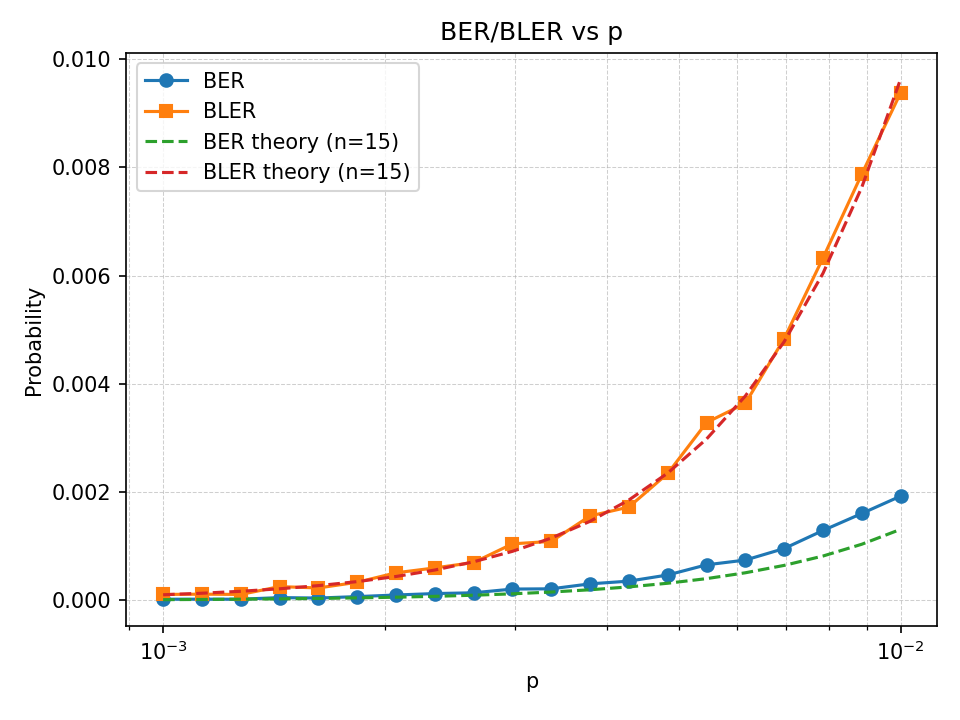
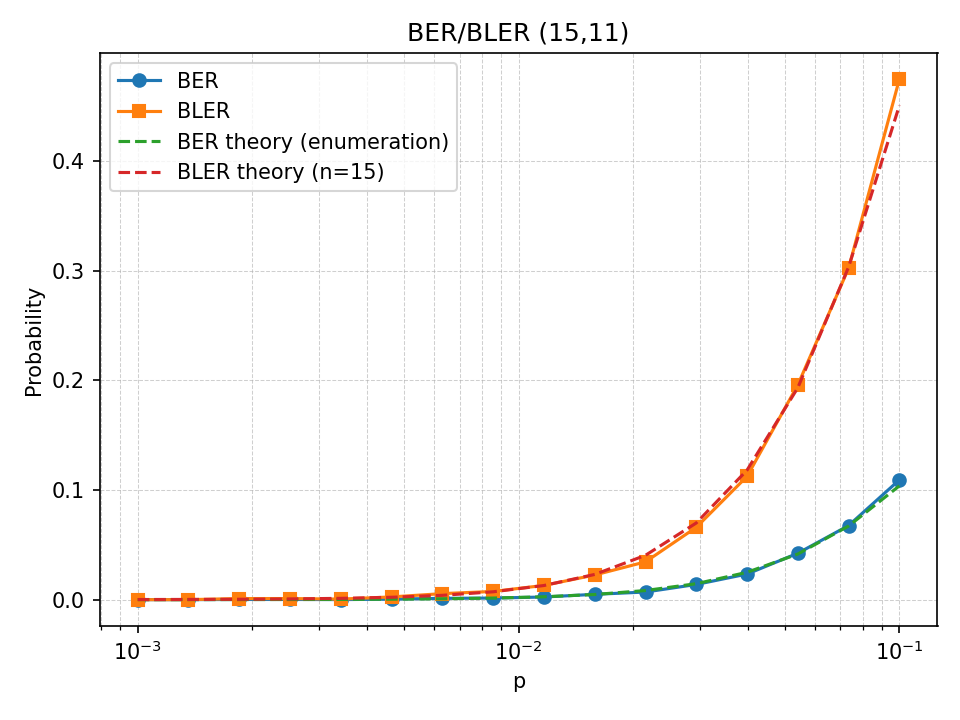
Фикс теоретической формулы BER методом полного перебора битов и подсчёта среднеё ошибки на бит

diff --git a/tools/ber_bler_sim.cpp b/tools/ber_bler_sim.cpp
@@ -1,6 +1,7 @@
 #include "hamming_decoder.hpp"
 #include "hamming_encoder.hpp"
 
+#include <cmath>
 #include <cstdint>
 #include <cstdlib>
 #include <iomanip>
@@ -23,6 +24,51 @@ struct Options {
   int p_points = 9;
   bool p_log = true;
 };
+
+struct ErrorOutcome {
+  uint8_t weight = 0;
+  uint8_t info_errors = 0;
+  bool block_error = false;
+};
+
+std::vector<ErrorOutcome> PrecomputeErrorOutcomes(int r) {
+  harq::HammingDecoder decoder(r);
+  const int n = decoder.n();
+  const int k = decoder.k();
+  if (n <= 0 || n > 30) {
+    throw std::invalid_argument("Unsupported n for exhaustive enumeration.");
+  }
+
+  std::vector<ErrorOutcome> outcomes;
+  const std::uint32_t total = 1u << n;
+  outcomes.reserve(total);
+
+  std::vector<uint8_t> error_vec(static_cast<std::size_t>(n), 0);
+  for (std::uint32_t mask = 0; mask < total; ++mask) {
+    for (int bit = 0; bit < n; ++bit) {
+      error_vec[static_cast<std::size_t>(bit)] =
+          static_cast<uint8_t>((mask >> bit) & 1u);
+    }
+
+    std::vector<uint8_t> decoded = decoder.Decode(error_vec);
+    int info_errors = 0;
+    for (uint8_t bit : decoded) {
+      info_errors += (bit == 1) ? 1 : 0;
+    }
+
+    ErrorOutcome outcome;
+    outcome.weight = static_cast<uint8_t>(__builtin_popcount(mask));
+    outcome.info_errors = static_cast<uint8_t>(info_errors);
+    outcome.block_error = info_errors > 0;
+    outcomes.push_back(outcome);
+  }
+
+  if (static_cast<int>(outcomes.size()) != (1 << n)) {
+    throw std::runtime_error("Error outcome enumeration failed.");
+  }
+
+  return outcomes;
+}
 
 void PrintUsage(const char* argv0) {
   std::cout << "Usage: " << argv0
@@ -117,12 +163,16 @@ int main(int argc, char** argv) {
   harq::HammingEncoder encoder(options.r);
   harq::HammingDecoder decoder(options.r);
   const int k = encoder.k();
+  const int n = encoder.n();
+  const std::vector<ErrorOutcome> error_outcomes =
+      PrecomputeErrorOutcomes(options.r);
 
   std::mt19937 rng(options.seed);
   std::uniform_int_distribution<int> bit_dist(0, 1);
   std::uniform_real_distribution<double> uni(0.0, 1.0);
 
-  std::cout << "p,ber,bler,bit_errors,block_errors,total_bits,total_blocks\n";
+  std::cout << "p,ber,bler,ber_theory,bler_theory,bit_errors,block_errors,"
+            << "total_bits,total_blocks\n";
   std::cout << std::setprecision(8) << std::fixed;
 
   std::vector<double> p_values = options.p_list;
@@ -148,6 +198,21 @@ int main(int argc, char** argv) {
   }
 
   for (double p : p_values) {
+    long double ber_theory = 0.0L;
+    long double bler_theory = 0.0L;
+    const long double p_ld = static_cast<long double>(p);
+    const long double q_ld = 1.0L - p_ld;
+    for (const auto& outcome : error_outcomes) {
+      const int w = outcome.weight;
+      const long double prob =
+          std::pow(p_ld, w) * std::pow(q_ld, n - w);
+      ber_theory += static_cast<long double>(outcome.info_errors) * prob;
+      if (outcome.block_error) {
+        bler_theory += prob;
+      }
+    }
+    ber_theory /= static_cast<long double>(k);
+
     std::size_t bit_errors = 0;
     std::size_t block_errors = 0;
     std::size_t total_bits = 0;
@@ -187,7 +252,9 @@ int main(int argc, char** argv) {
     double bler = static_cast<double>(block_errors) /
         static_cast<double>(options.blocks);
 
-    std::cout << p << "," << ber << "," << bler << "," << bit_errors << ","
+    std::cout << p << "," << ber << "," << bler << ","
+              << static_cast<double>(ber_theory) << ","
+              << static_cast<double>(bler_theory) << "," << bit_errors << ","
               << block_errors << "," << total_bits << ","
               << options.blocks << "\n";
   }

diff --git a/tools/plot_ber_bler.py b/tools/plot_ber_bler.py
@@ -12,6 +12,7 @@ def load_csv(path: Path):
     p_vals = []
     ber_vals = []
     bler_vals = []
+    ber_theory_vals = []
     with path.open(newline="") as f:
         reader = csv.DictReader(f)
         for row in reader:
@@ -20,7 +21,11 @@ def load_csv(path: Path):
             p_vals.append(float(row["p"]))
             ber_vals.append(float(row["ber"]))
             bler_vals.append(float(row["bler"]))
-    return p_vals, ber_vals, bler_vals
+            if "ber_theory" in row and row["ber_theory"] != "":
+                ber_theory_vals.append(float(row["ber_theory"]))
+    if ber_theory_vals and len(ber_theory_vals) != len(p_vals):
+        raise SystemExit("ber_theory column has unexpected length.")
+    return p_vals, ber_vals, bler_vals, ber_theory_vals
 
 
 def parse_args():
@@ -63,24 +68,25 @@ def main():
     if not csv_path.exists():
         raise SystemExit(f"CSV not found: {csv_path}")
 
-    p_vals, ber_vals, bler_vals = load_csv(csv_path)
+    p_vals, ber_vals, bler_vals, ber_theory_vals = load_csv(csv_path)
 
     fig, ax = plt.subplots()
     ax.plot(p_vals, ber_vals, marker="o", label="BER")
     ax.plot(p_vals, bler_vals, marker="s", label="BLER")
 
+    if ber_theory_vals:
+        ax.plot(p_vals, ber_theory_vals, linestyle="--",
+                label="BER theory (enumeration)")
+
     if args.r is not None:
         if args.r < 2:
             raise SystemExit("r must be >= 2 for Hamming code.")
         n = (1 << args.r) - 1
-        ber_theory = []
         bler_theory = []
         for p in p_vals:
-            ber_theory.append(p - p * (1.0 - p) ** (n - 1))
             bler_theory.append(
                 1.0 - (1.0 - p) ** n - n * p * (1.0 - p) ** (n - 1)
             )
-        ax.plot(p_vals, ber_theory, linestyle="--", label=f"BER theory (n={n})")
         ax.plot(p_vals, bler_theory, linestyle="--", label=f"BLER theory (n={n})")
     ax.set_xlabel("p")
     ax.set_ylabel("Probability")
